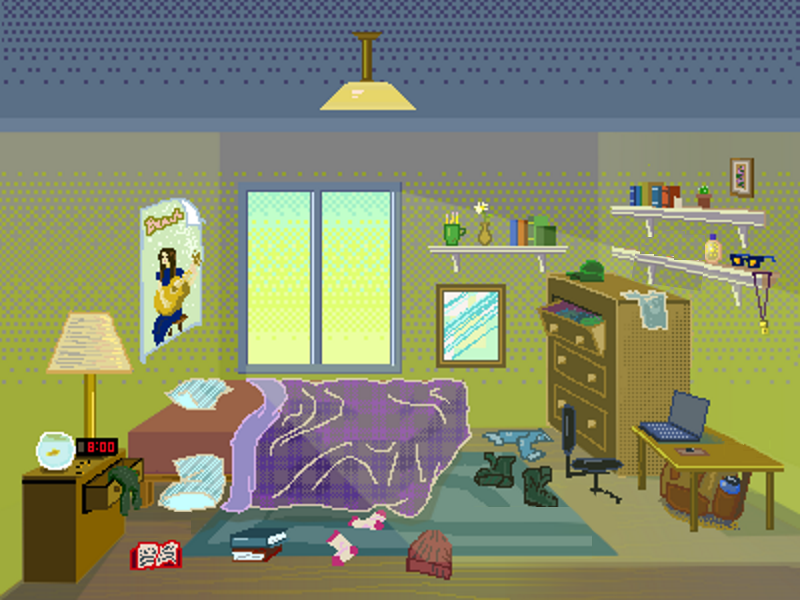
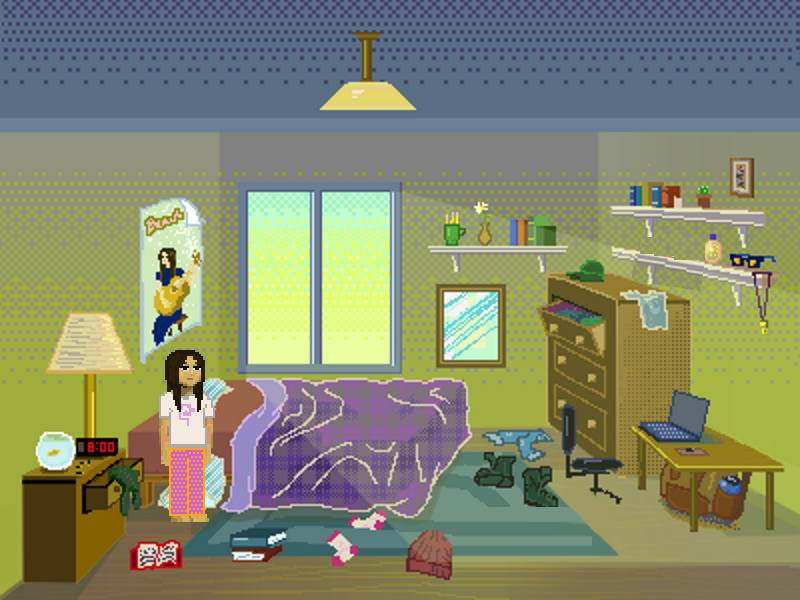
Add kid to room, add bus immage to conversation

Changed region(s): [[0.1875, 0.57, 0.2812, 0.87]]

diff --git a/src/common/Conversation.vue b/src/common/Conversation.vue
@@ -4,11 +4,14 @@
       <div v-for="(text, textIndex) in texts"
         class="text-bubble-container"
         :class="{ mine: text.from == 'me', theirs: text.from == 'them', label: text.from == 'label', decision: text.from == 'decision', cleared: textIndex == clearIndex }">
-        <div class="text-bubble" v-if="text.from != 'decision'">
+        <div class="text-bubble" v-if="text.from != 'decision' && text.from != 'image'">
           {{ text.text }}
         </div>
         <div class="choice" v-for="(choice, choiceIndex) in text.decisions" v-if="text.from == 'decision'" @click="addToInitials(choice.initials)">
           {{ alphabet[choiceIndex] }}) {{ choice.label }}
+        </div>
+        <div class="image" v-if="text.from == 'image'">
+          <img :src="text.text" />
         </div>
       </div>
     </div>
@@ -47,6 +50,7 @@
         this.currentTextBuffer = data.text;
         if(!!data.effect) data.effect();
         setTimeout(() => this.addCharacter(), this.textDelay);
+        if(data.from == 'image') this.skip()
       },
       addCharacter() {
         this.texts[this.texts.length - 1].text += this.currentTextBuffer.charAt(0);

diff --git a/src/levels/BusRide.vue b/src/levels/BusRide.vue
@@ -20,6 +20,7 @@
       return {
         conversationTree: {
           initials: [
+            { from: 'image', text: require('../assets/bus-scene.png') },
             { from: 'label', text: 'You barely make it to the bus on time. As you climb up the stairs, you wonder if you remembered to bring everything on the NatureBridge packing list.' },
             { from: 'me', text: 'I think I forgot some stuff.' },
             { from: 'them', text: 'Don’t worry, they usually have extras.' }
